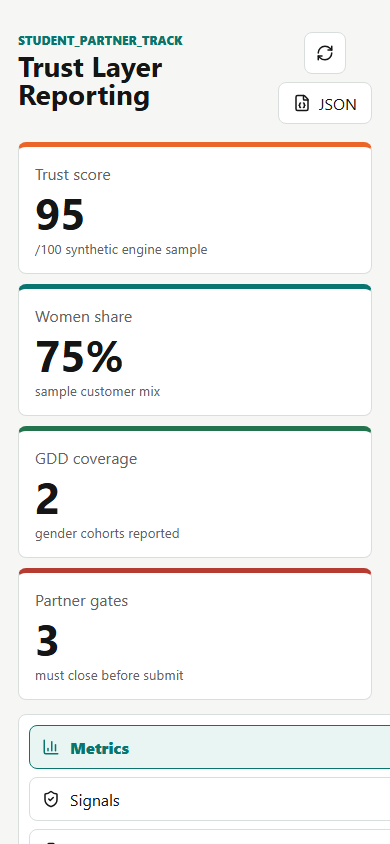
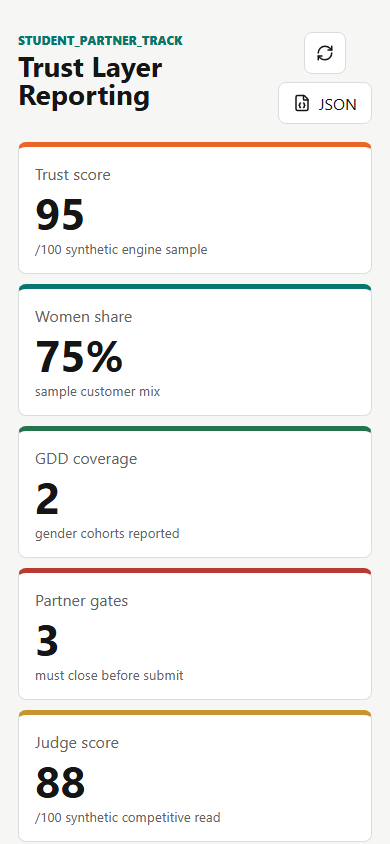
Add competitive judge room to demo

diff --git a/src/App.vue b/src/App.vue
@@ -37,6 +37,11 @@
         <strong>{{ partnerGateCount }}</strong>
         <small>must close before submit</small>
       </article>
+      <article class="metric-tile accent-gold">
+        <span>Judge score</span>
+        <strong>{{ competitive.weighted_score }}</strong>
+        <small>/100 synthetic competitive read</small>
+      </article>
     </section>
 
     <section class="workspace">
@@ -52,6 +57,10 @@
         <button :class="tabClass('readiness')" @click="activeTab = 'readiness'">
           <i data-lucide="clipboard-check"></i>
           Readiness
+        </button>
+        <button :class="tabClass('judge')" @click="activeTab = 'judge'">
+          <i data-lucide="trophy"></i>
+          Judge Room
         </button>
         <img src="./assets/trust_by_design_guide.png" alt="Trust by Design guide cover" />
       </nav>
@@ -121,6 +130,36 @@
           </article>
         </div>
       </section>
+
+      <section class="content-panel" v-if="activeTab === 'judge'">
+        <div class="section-heading">
+          <h2>Competitive Judge Room</h2>
+          <p>Weighted Stage 1 rubric, likely rivals, and answer angles that sharpen the submission.</p>
+        </div>
+        <div class="judge-grid">
+          <article v-for="dimension in competitive.dimensions" :key="dimension.id" class="judge-card">
+            <div>
+              <strong>{{ dimension.label }}</strong>
+              <small>{{ dimension.weight }}% weight</small>
+            </div>
+            <span>{{ dimension.score }}</span>
+            <p>{{ dimension.must_improve }}</p>
+          </article>
+        </div>
+        <div class="battle-row">
+          <section>
+            <h3>Top Rival</h3>
+            <p>{{ topRival.name }}</p>
+            <small>{{ topRival.counter }}</small>
+          </section>
+          <section>
+            <h3>Kill Shots</h3>
+            <ul>
+              <li v-for="shot in competitive.kill_shots" :key="shot">{{ shot }}</li>
+            </ul>
+          </section>
+        </div>
+      </section>
     </section>
   </main>
 </template>
@@ -138,6 +177,12 @@ export default {
         metrics: [],
         decisions: [],
         findings: []
+      },
+      competitive: {
+        weighted_score: 0,
+        dimensions: [],
+        rivals: [],
+        kill_shots: []
       }
     };
   },
@@ -147,9 +192,15 @@ export default {
     },
     genderCount() {
       return this.report.metrics.length;
+    },
+    topRival() {
+      return this.competitive.rivals[0] || { name: 'Partner data gap', counter: 'Close partner evidence first.' };
     }
   },
   mounted() {
+    if (window.location.hash.includes('judge')) {
+      this.activeTab = 'judge';
+    }
     this.loadReport();
   },
   updated() {
@@ -157,8 +208,12 @@ export default {
   },
   methods: {
     async loadReport() {
-      const response = await fetch('./data/trust_report.json', { cache: 'no-store' });
-      this.report = await response.json();
+      const [trustResponse, competitiveResponse] = await Promise.all([
+        fetch('./data/trust_report.json', { cache: 'no-store' }),
+        fetch('./data/competitive_report.json', { cache: 'no-store' })
+      ]);
+      this.report = await trustResponse.json();
+      this.competitive = await competitiveResponse.json();
       this.$nextTick(this.paintIcons);
     },
     paintIcons() {

diff --git a/src/styles.css b/src/styles.css
@@ -116,7 +116,7 @@ h2 {
 
 .summary-grid {
   display: grid;
-  grid-template-columns: repeat(4, minmax(0, 1fr));
+  grid-template-columns: repeat(5, minmax(0, 1fr));
   gap: 10px;
 }
 
@@ -151,6 +151,10 @@ h2 {
 
 .accent-red {
   border-top-color: var(--red);
+}
+
+.accent-gold {
+  border-top-color: var(--gold);
 }
 
 .workspace {
@@ -241,7 +245,8 @@ th {
 }
 
 .signal-list,
-.finding-list {
+.finding-list,
+.judge-grid {
   display: grid;
   gap: 10px;
 }
@@ -297,6 +302,68 @@ th {
   color: #8f4118;
 }
 
+.judge-grid {
+  grid-template-columns: repeat(auto-fit, minmax(190px, 1fr));
+}
+
+.judge-card {
+  display: grid;
+  gap: 12px;
+  min-height: 184px;
+  padding: 14px;
+  border: 1px solid var(--line);
+  border-radius: 8px;
+}
+
+.judge-card > div {
+  display: grid;
+  gap: 4px;
+}
+
+.judge-card strong,
+.battle-row h3 {
+  font-size: 15px;
+}
+
+.judge-card small,
+.battle-row small {
+  color: var(--muted);
+}
+
+.judge-card span {
+  color: var(--teal);
+  font-size: 38px;
+  font-weight: 900;
+  line-height: 1;
+}
+
+.judge-card p {
+  color: var(--muted);
+  font-size: 13px;
+}
+
+.battle-row {
+  display: grid;
+  grid-template-columns: 320px minmax(0, 1fr);
+  gap: 12px;
+  margin-top: 14px;
+}
+
+.battle-row section {
+  padding: 14px;
+  border: 1px solid var(--line);
+  border-radius: 8px;
+}
+
+.battle-row ul {
+  margin: 8px 0 0;
+  padding-left: 18px;
+}
+
+.battle-row li {
+  margin-bottom: 6px;
+}
+
 svg {
   width: 18px;
   height: 18px;
@@ -305,7 +372,9 @@ svg {
 
 @media (max-width: 920px) {
   .summary-grid,
-  .workspace {
+  .workspace,
+  .judge-grid,
+  .battle-row {
     grid-template-columns: 1fr;
   }
 
